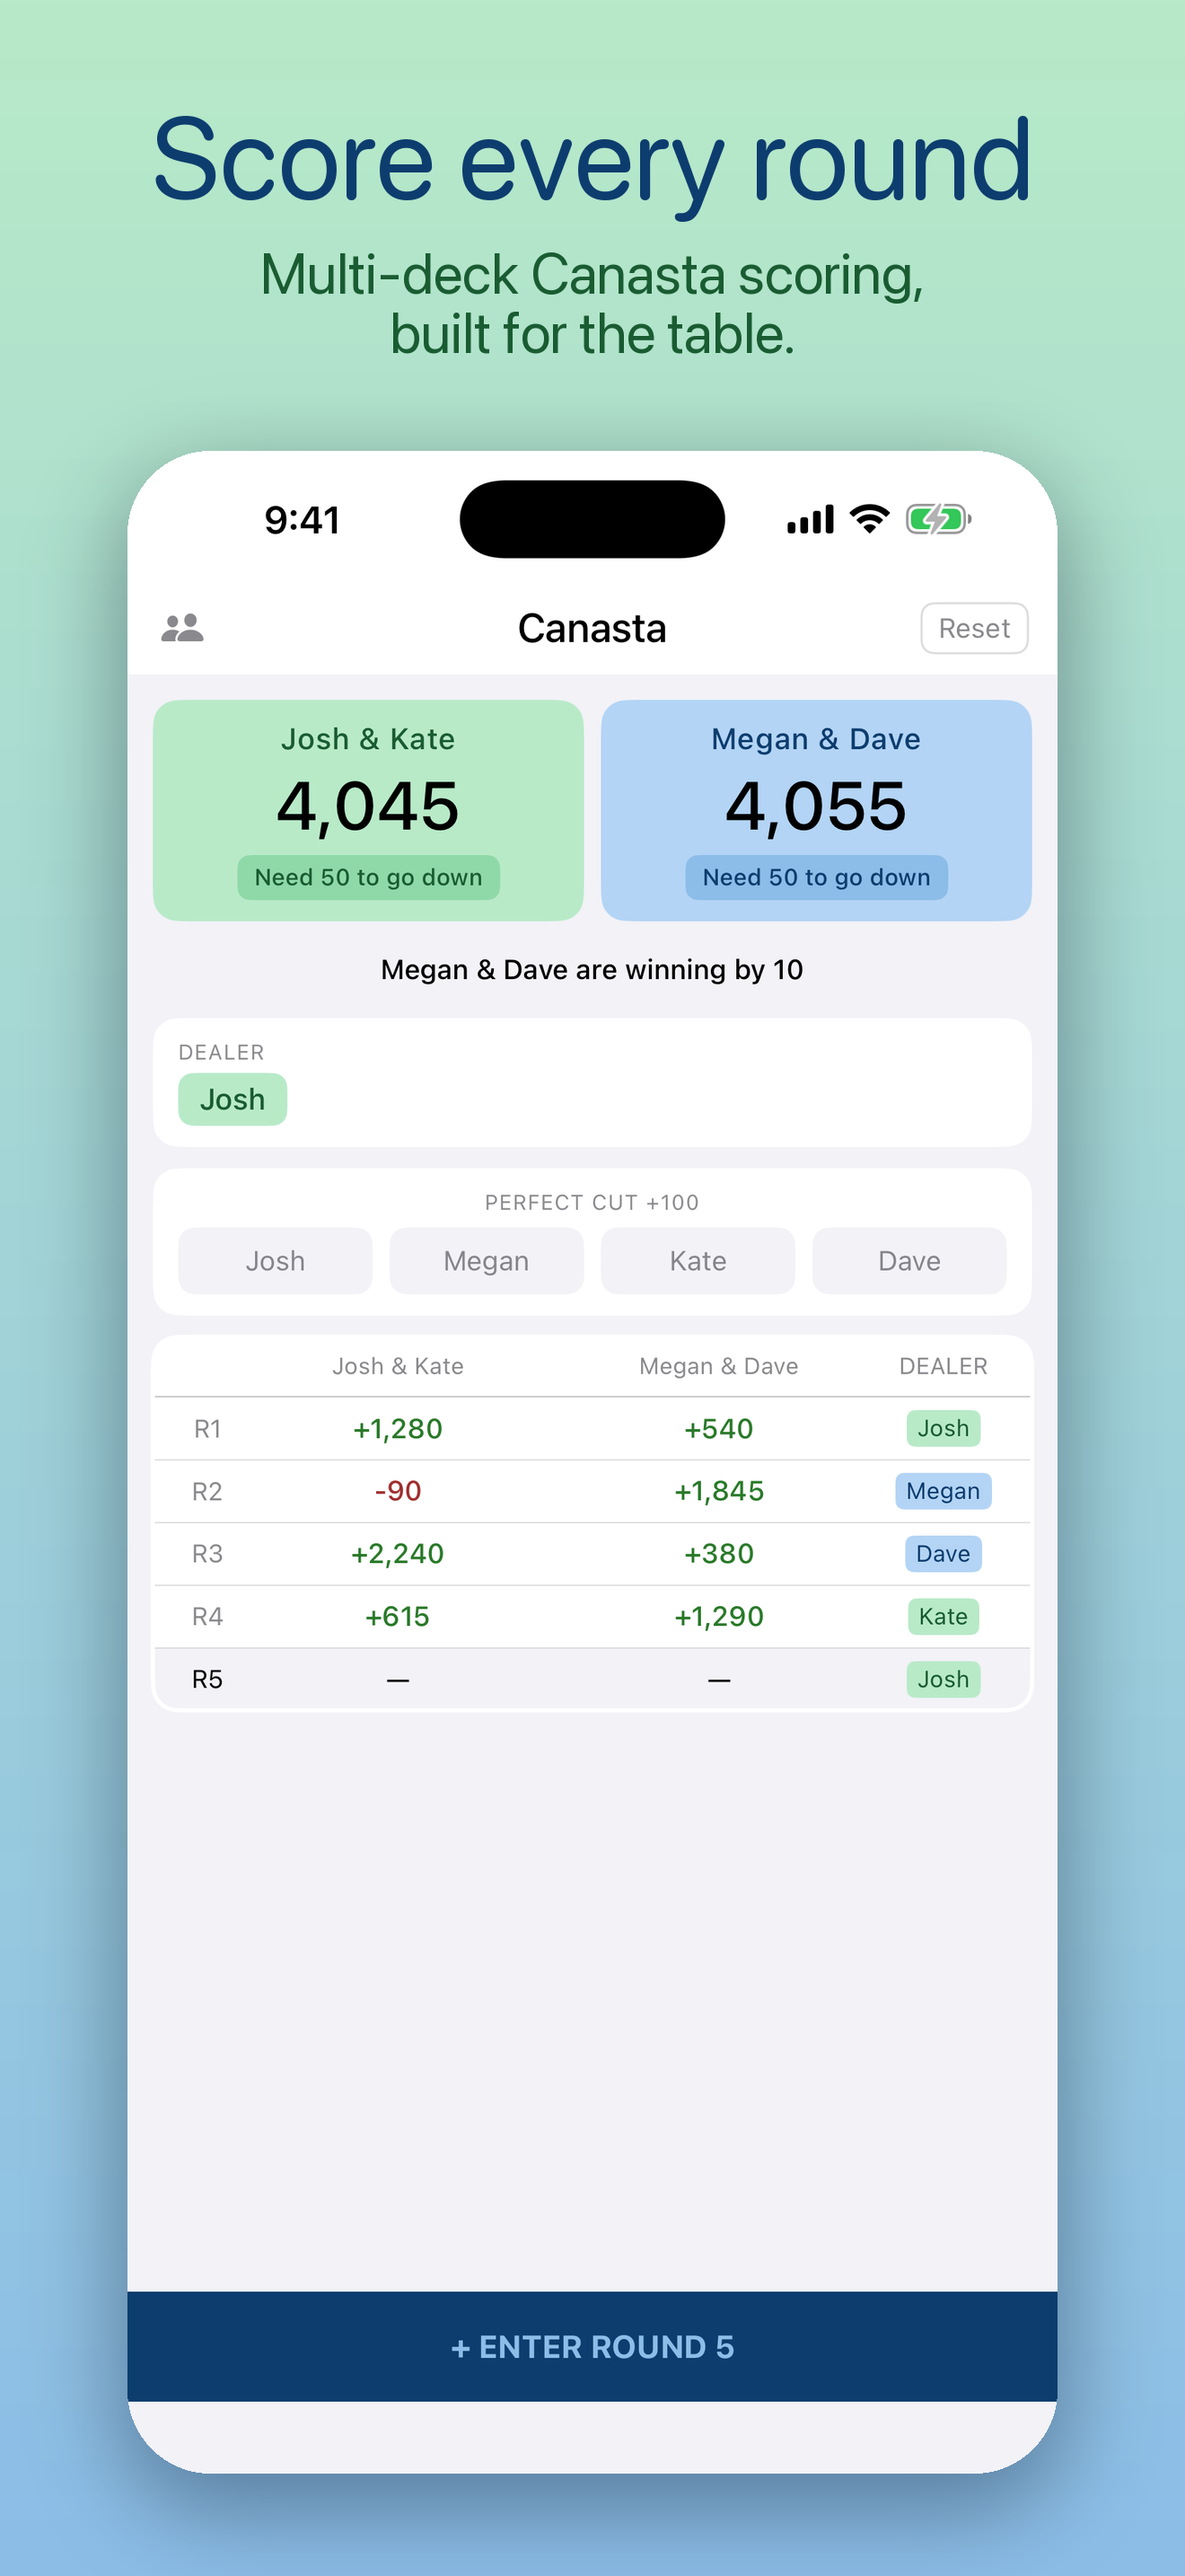
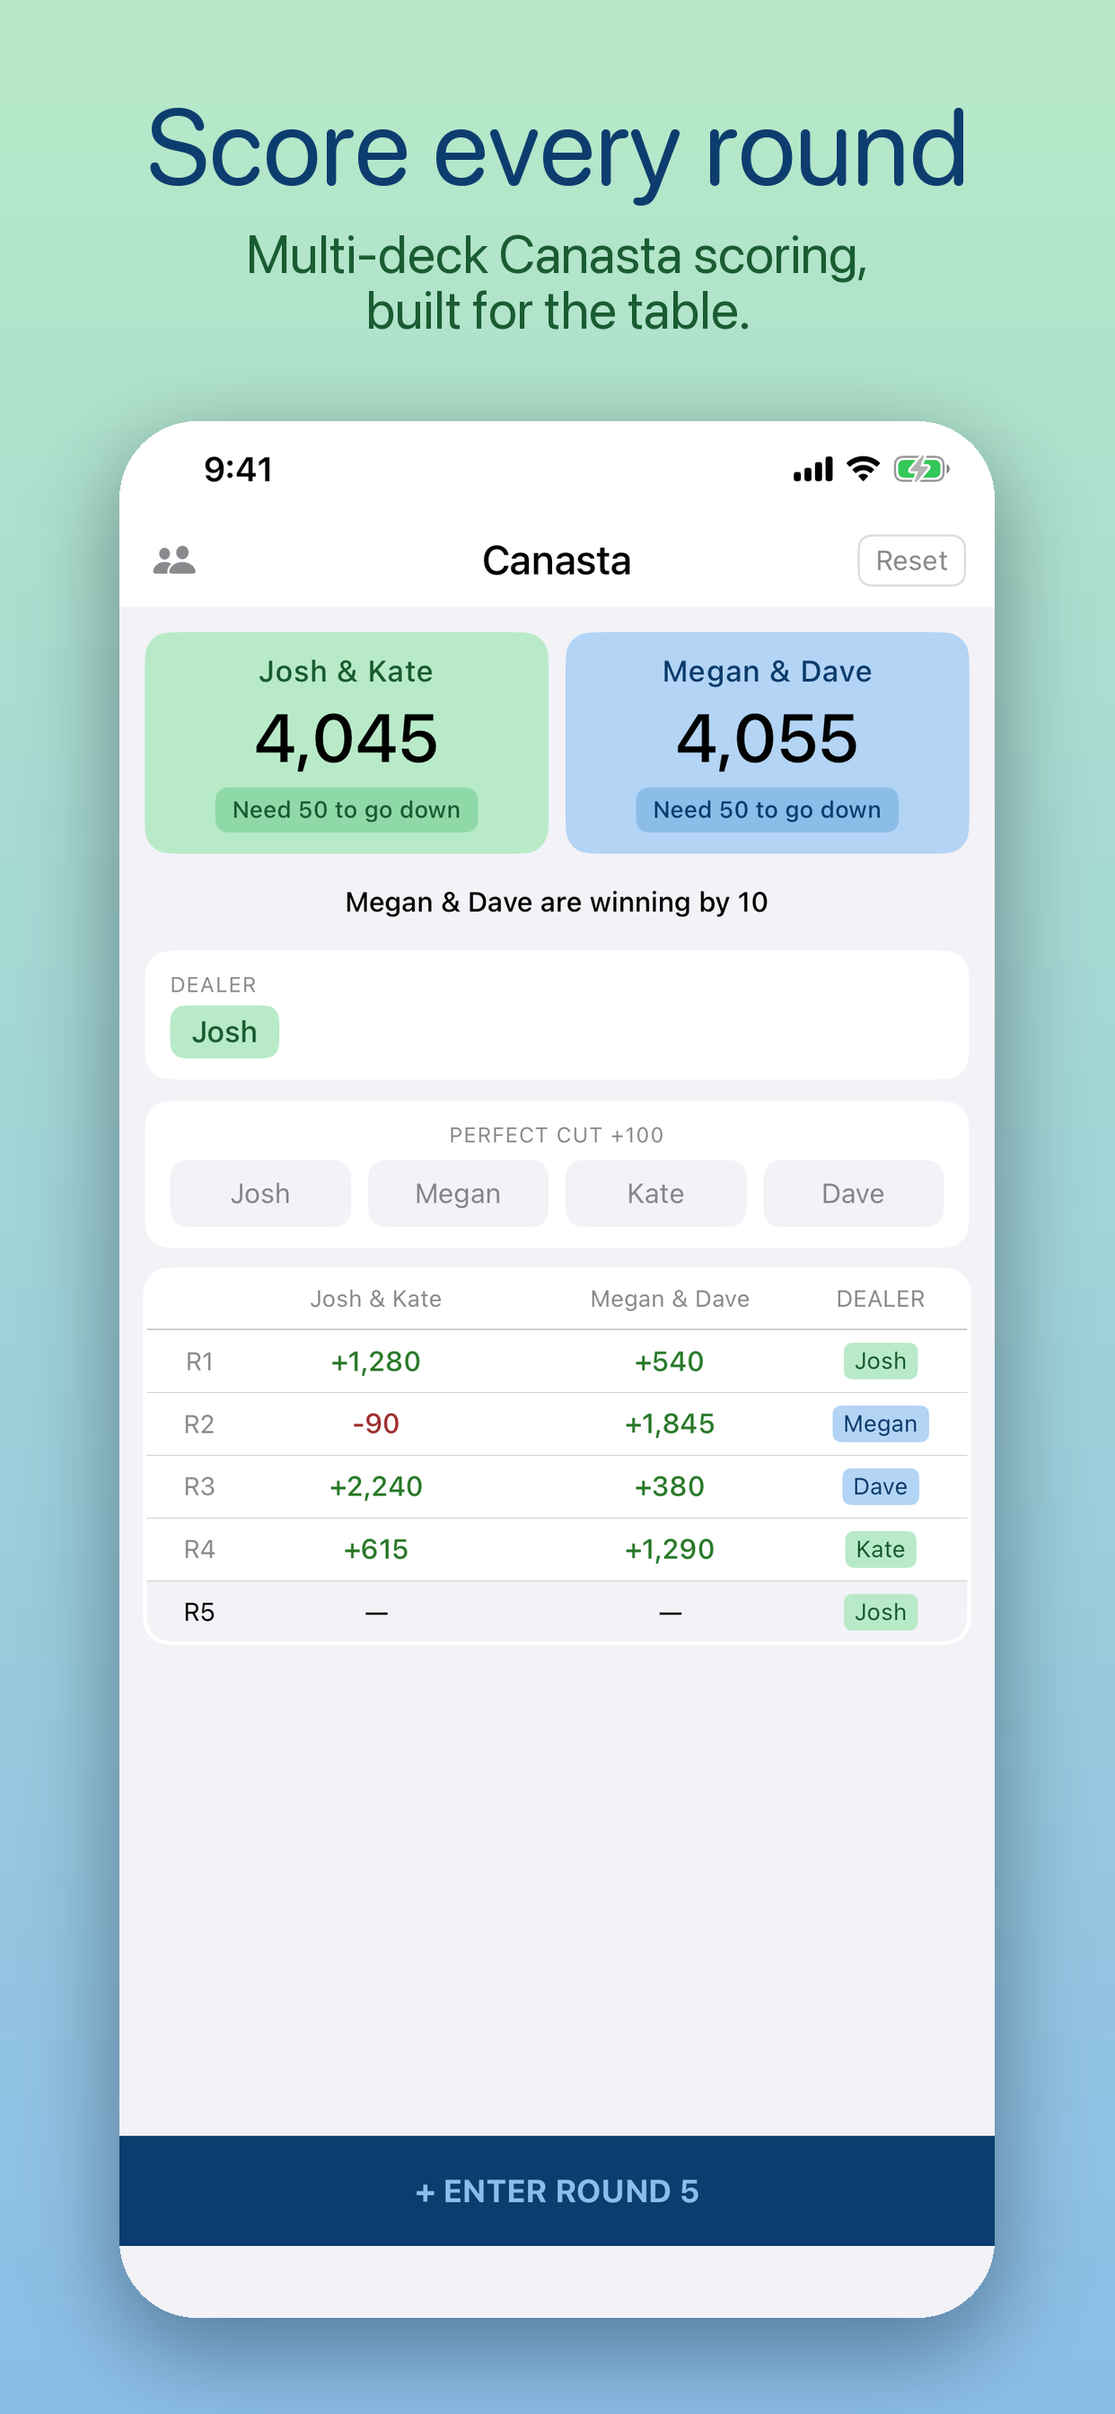
Update Canasta 5-Deck screenshots with newer marketing set
Swap in the latest marketing captures (adds melds, cards, and win screens; drops standalone settings and setup).

diff --git a/canasta5.html b/canasta5.html
@@ -100,10 +100,11 @@
         <h2>Screenshots</h2>
         <div class="shots">
           <img src="assets/screenshots/canasta5/01_main.png" alt="Canasta 5-Deck main screen">
-          <img src="assets/screenshots/canasta5/02_records.png" alt="Canasta 5-Deck records">
-          <img src="assets/screenshots/canasta5/03_settings.png" alt="Canasta 5-Deck settings">
+          <img src="assets/screenshots/canasta5/06_melds.png" alt="Canasta 5-Deck melds entry">
+          <img src="assets/screenshots/canasta5/07_cards.png" alt="Canasta 5-Deck card counts">
           <img src="assets/screenshots/canasta5/04_summary.png" alt="Canasta 5-Deck round summary">
-          <img src="assets/screenshots/canasta5/05_setup.png" alt="Canasta 5-Deck game setup">
+          <img src="assets/screenshots/canasta5/02_records.png" alt="Canasta 5-Deck records">
+          <img src="assets/screenshots/canasta5/08_win.png" alt="Canasta 5-Deck game won">
         </div>
       </div>
     </section>
